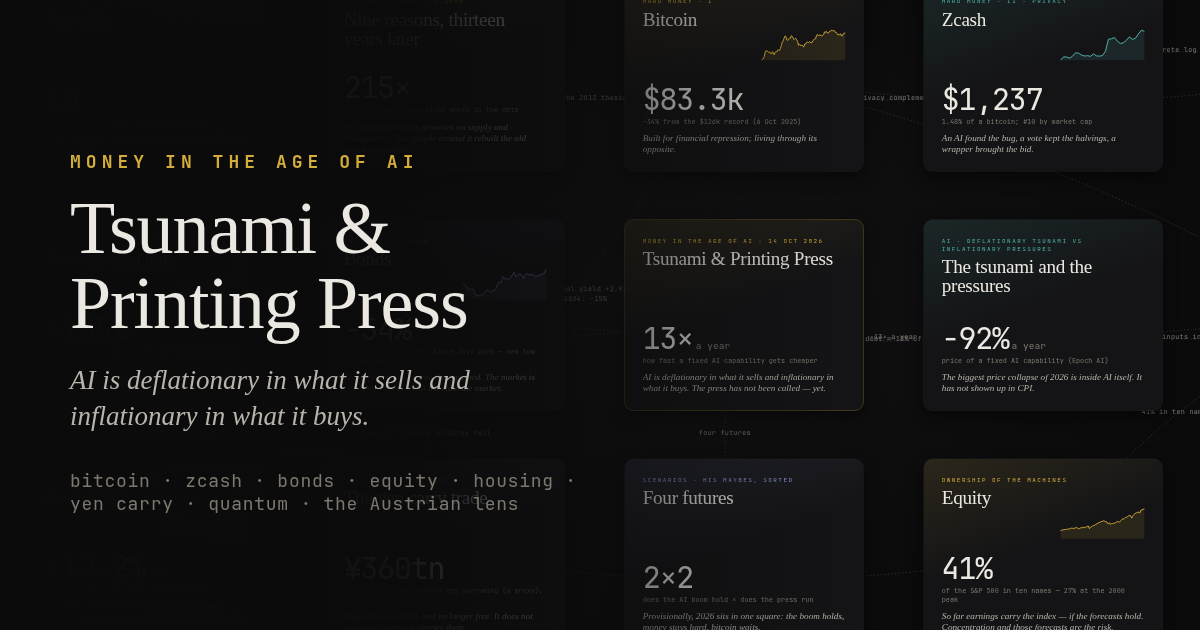
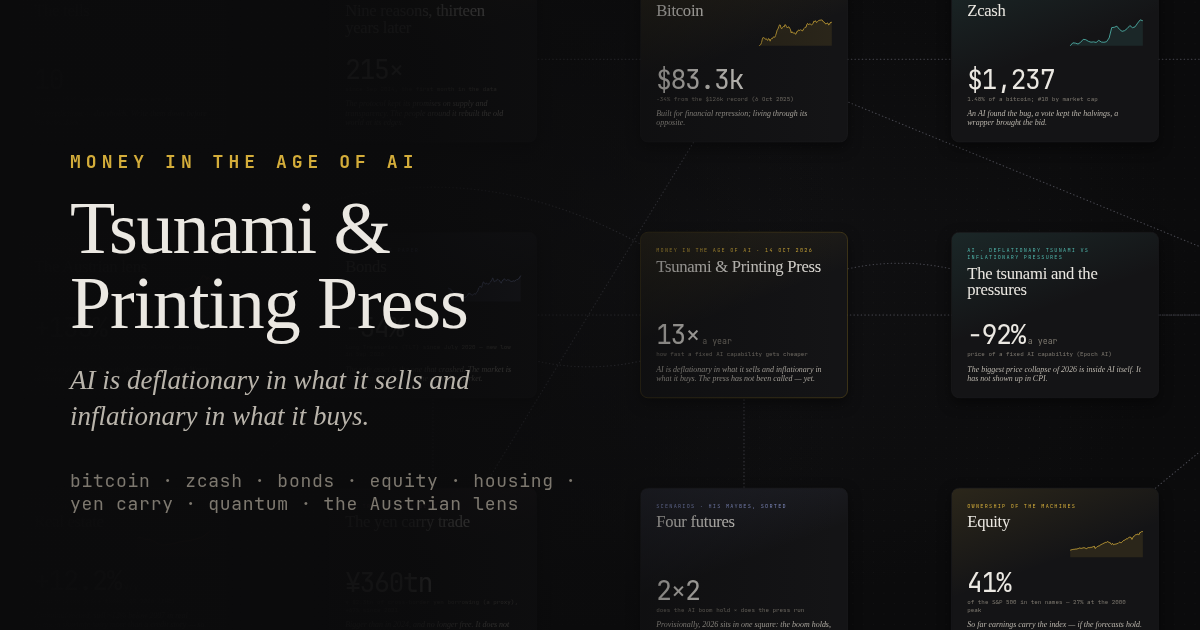
infog: breadcrumb links back to pub; map link labels as screen-space chips routed through open ground

diff --git a/infog/tsunami-and-printing-press/index.html b/infog/tsunami-and-printing-press/index.html
@@ -54,10 +54,15 @@ button{font:inherit;color:inherit;background:none;border:0;cursor:pointer}
                    radial-gradient(circle,rgba(235,232,226,.035) 1px,transparent 1.2px);
   background-size:600px 600px,60px 60px}
 #links{position:absolute;overflow:visible;pointer-events:none}
-#links path{fill:none;stroke:var(--line2);stroke-width:5;stroke-dasharray:2 16;stroke-linecap:round}
-#links path.hot{stroke:var(--gold);stroke-dasharray:none;stroke-width:3.5;opacity:.75}
-#links text{font-family:var(--mono);font-size:34px;fill:var(--fg3);letter-spacing:.04em;opacity:calc(1 - var(--o1))}
-#links text.hot{fill:var(--gold)}
+#links path{fill:none;stroke:#4a4a52;stroke-width:6;stroke-dasharray:3 18;stroke-linecap:round}
+#links path.hot{stroke:var(--gold);stroke-dasharray:none;stroke-width:5;opacity:.85}
+#chips{position:fixed;inset:0;pointer-events:none;z-index:5;overflow:hidden}
+#chips button{position:absolute;left:0;top:0;pointer-events:auto;max-width:116px;padding:4px 8px;border-radius:9px;
+  font:10px/1.3 var(--mono);letter-spacing:.02em;color:var(--fg2);text-align:center;white-space:normal;
+  background:rgba(17,17,19,.92);border:1px solid var(--line2);box-shadow:0 4px 14px rgba(0,0,0,.5);transition:opacity .25s,border-color .2s,color .2s}
+#chips button:hover{border-color:var(--gold);color:var(--fg)}
+#chips button.hot{border-color:var(--gold2);color:var(--gold)}
+#chips button.off{opacity:0;pointer-events:none}
 
 /* ---------- node ---------- */
 .node{position:absolute;width:1200px;height:960px;border-radius:44px;background:var(--card);
@@ -184,7 +189,7 @@ body.read{overflow:auto}
 body.read #vp{position:static;overflow:visible;cursor:auto;background:none;touch-action:auto}
 body.read #world{position:static;transform:none!important;width:auto!important;height:auto!important;
   padding:70px 16px 60px;display:flex;flex-direction:column;align-items:center;gap:36px;--o1:1}
-body.read #grid,body.read #links,body.read #mini,body.read #hint,body.read #tools [data-act=home]{display:none}
+body.read #chips,body.read #grid,body.read #links,body.read #mini,body.read #hint,body.read #tools [data-act=home]{display:none}
 body.read .node{position:relative;left:auto!important;top:auto!important;width:min(1200px,100%);height:auto;box-shadow:none}
 body.read .l0{display:none}
 body.read .l1{position:relative;opacity:1;pointer-events:auto}
@@ -205,8 +210,9 @@ noscript{display:block;padding:40px;font-family:var(--serif);font-size:20px}
 </head>
 <body class="z0">
 <noscript>This piece is a zoomable map drawn by a small inline script. Enable JavaScript, or read the sources in the repository.</noscript>
+<div id="chips"></div>
 <div id="vp"><div id="world"><div id="grid"></div><svg id="links"></svg></div></div>
-<nav id="crumb" class="hud"><a data-act="home">tsunami &amp; printing press</a><span id="crumbTail"></span></nav>
+<nav id="crumb" class="hud"><a href="../../" title="taoaieng.io/pub — all pieces and the archive">pub</a><span>›</span><a data-act="home">tsunami &amp; printing press</a><span id="crumbTail"></span></nav>
 <div id="tools" class="hud"><button data-act="home" title="whole map (0)">map</button><button data-act="read" title="read as an article (R)">read</button><button data-act="help" title="how to move (?)">?</button></div>
 <div id="hint" class="hud">scroll or pinch to zoom · drag to pan · click a tile · ← → walk · R read · ? help</div>
 <div id="mini" class="hud"></div>
@@ -675,7 +681,8 @@ links: [
 const $ = (s, r = document) => r.querySelector(s), $$ = (s, r = document) => [...r.querySelectorAll(s)];
 const esc = s => String(s ?? "").replace(/[&<>"]/g, c => ({ "&": "&amp;", "<": "&lt;", ">": "&gt;", '"': "&quot;" }[c]));
 const NS = "http://www.w3.org/2000/svg";
-const W = 1200, H = 960, GX = 1500, GY = 1200;          // tile size and grid pitch, world px
+const W = 1200, H = 960, GX = 1800, GY = 1480;
+const nodeRect = n => ({ x: n.gx * GX - W / 2, y: n.gy * GY - (n.h || H) / 2, w: W, h: n.h || H });          // tile size and grid pitch, world px
 const HUE = { gold: "#d4ad3a", sea: "#4fb3a9", rust: "#d0694a", ink: "#8f9bd6", rose: "#c96f8f", fg: "#ebe8e2", dim: "#7d786f" };
 
 // inline rich text: **b**, [n] cites → superscripts linked to the node's source list
@@ -807,17 +814,43 @@ for (const n of nodes) world.appendChild(renderNode(n));
 const svg = $("#links");
 Object.assign(svg.style, { left: BOUNDS.x + "px", top: BOUNDS.y + "px", width: BOUNDS.w + "px", height: BOUNDS.h + "px" });
 svg.setAttribute("viewBox", `${BOUNDS.x} ${BOUNDS.y} ${BOUNDS.w} ${BOUNDS.h}`);
-let linkSvg = "";
-DATA.links.forEach(([a, b, label], i) => {
+let linkSvg = ""; const CHIPS = [];
+DATA.links.forEach(([a, b, label]) => {
   const A = byId[a], B = byId[b]; if (!A || !B) return;
   const ax = A.gx * GX, ay = A.gy * GY, bx = B.gx * GX, by = B.gy * GY, mx = (ax + bx) / 2, my = (ay + by) / 2;
-  const dx = bx - ax, dy = by - ay, len = Math.hypot(dx, dy), bend = (i % 2 ? 1 : -1) * Math.min(260, len * .16);
-  const cx = mx - dy / len * bend, cy = my + dx / len * bend;
+  const dx = bx - ax, dy = by - ay, len = Math.hypot(dx, dy), px = -dy / len, py = dx / len;
+  // choose the bend that puts the label (curve midpoint) on open ground: off every tile, clear of other labels
+  let best = null, bs = 1e18;
+  for (const c of [0, 300, -300, 600, -600, 1000, -1000, GY, -GY, 1800, -1800, 2400, -2400]) {
+    const x = mx + px * c / 2, y = my + py * c / 2;
+    let sc = Math.abs(c);
+    for (const n of nodes) { const r = nodeRect(n), m = 60; if (x > r.x - m && x < r.x + r.w + m && y > r.y - m && y < r.y + r.h + m) sc += 1e7; }
+    for (const k of CHIPS) if (Math.abs(k.x - x) < 700 && Math.abs(k.y - y) < 260) sc += 1e6;
+    if (sc < bs) { bs = sc; best = { c, x, y }; }
+  }
+  const cx = mx + px * best.c, cy = my + py * best.c;
   linkSvg += `<path data-a="${a}" data-b="${b}" d="M${ax} ${ay}Q${cx} ${cy} ${bx} ${by}"/>`;
-  const lx = (ax + 2 * cx + bx) / 4, ly = (ay + 2 * cy + by) / 4;
-  linkSvg += `<text data-a="${a}" data-b="${b}" x="${lx}" y="${ly}" text-anchor="middle">${esc(label)}</text>`;
+  CHIPS.push({ a, b, x: best.x, y: best.y, label });
 });
 svg.innerHTML = linkSvg;
+const chipBox = $("#chips");
+for (const c of CHIPS) {
+  const el = document.createElement("button");
+  el.textContent = c.label; el.title = `${byId[c.a].short} ↔ ${byId[c.b].short}`;
+  el.addEventListener("click", () => {   // fly to both ends of the link
+    const A = nodeRect(byId[c.a]), B = nodeRect(byId[c.b]), x = Math.min(A.x, B.x), y = Math.min(A.y, B.y);
+    setFocus(null); flyTo({ x, y, w: Math.max(A.x + A.w, B.x + B.w) - x, h: Math.max(A.y + A.h, B.y + B.h) - y }, 750, .9);
+  });
+  c.el = el; chipBox.appendChild(el);
+}
+function placeChips(o1) {
+  for (const c of CHIPS) {
+    const hot = focus && (focus.id === c.a || focus.id === c.b);
+    c.el.classList.toggle("hot", !!hot);
+    c.el.classList.toggle("off", o1 > .55 && !hot);
+    c.el.style.transform = `translate(${c.x * cam.s + cam.x}px,${c.y * cam.s + cam.y}px) translate(-50%,-50%)`;
+  }
+}
 
 // ---------- camera ----------
 let cam = { x: 0, y: 0, s: .2 }, anim = null, focus = null;
@@ -827,6 +860,7 @@ function apply() {
   const o1 = Math.min(1, Math.max(0, (W * cam.s / vw() - .38) / .2));
   world.style.setProperty("--o1", o1.toFixed(3));
   document.body.classList.toggle("z0", o1 < .5);
+  placeChips(o1);
   mini();
 }
 function fitRect(r, pad = .9) {
@@ -847,7 +881,6 @@ function flyTo(r, ms = 750, pad) {
   };
   anim = requestAnimationFrame(step);
 }
-const nodeRect = n => ({ x: n.gx * GX - W / 2, y: n.gy * GY - (n.h || H) / 2, w: W, h: n.h || H });
 function elRect(el) {   // world rect of any element inside the world
   const b = el.getBoundingClientRect(), v = vp.getBoundingClientRect();
   return { x: (b.left - v.left - cam.x) / cam.s, y: (b.top - v.top - cam.y) / cam.s, w: b.width / cam.s, h: b.height / cam.s };

diff --git a/log/agt.md b/log/agt.md
@@ -23,3 +23,10 @@
 - Why there was no preview: the pages had a `<title>` and nothing else. LinkedIn and Telegram build the card from `og:title`, `og:description` and `og:image`, and the image needs an **absolute** URL.
 - Added: `og:*`, `twitter:*` (`summary_large_image`) and `canonical` on the home page, the piece and all 68 archive pages (`tools/render.py` now writes them; descriptions come from each page's opening text). New images: `og.png` (the pub card) and `infog/tsunami-and-printing-press/og.png` (the map with the title over it), both 1200×630 PNG. AGENTS records the one exception to relative links (preview metadata is absolute, `https://taoaieng.io/pub/…`).
 - Caches: LinkedIn and Telegram keep the first, empty result they fetched. Refresh LinkedIn at https://www.linkedin.com/post-inspector/ (paste the URL, *Inspect*), and Telegram by sending the URL to @WebpageBot. Sharing `https://taoaieng.io/pub/` with the trailing slash skips one redirect.
+
+## reply — the piece links back to pub, and the map's link labels are readable at every zoom
+
+- **Parent link:** the breadcrumb now starts with `pub ›` (→ `../../`, i.e. `taoaieng.io/pub/`), on the map and in read mode.
+- **Readable links:** the labels were SVG text inside the world, 34 world-px — about 6 screen-px on the whole-map view. They are now screen-space chips (10 px mono on a dark pill) that follow the map and stay the same size at any zoom. When you zoom into a tile, only that tile's links stay lit. Clicking a chip flies to the two tiles it connects.
+- **Placement:** each label sits where its curve crosses open ground. For every link the bend is chosen so the midpoint lands off every tile and clear of other labels. The grid pitch went from 1500 × 1200 to 1800 × 1480, so the gaps can hold a label; the lines got a little more contrast. Long links now arc around the tiles instead of running under them.
+- `og.png` re-rendered on the new layout. Checked headless on the whole-map, tile and link-click views.

diff --git a/log/mat.md b/log/mat.md
@@ -30,3 +30,8 @@ https://taoaieng.io/pub does not serve pub yet
 live now
 - i tried to share the [link](https://taoaieng.io/pub) at linkedin and telegram but renders no preview img or txt
 - try to provide them
+
+## prompt
+
+- https://taoaieng.io/pub/infog/tsunami-and-printing-press/ should have a link to the parent site /pub.
+- there are some nice links between cards in the map, but they are not readeable.
